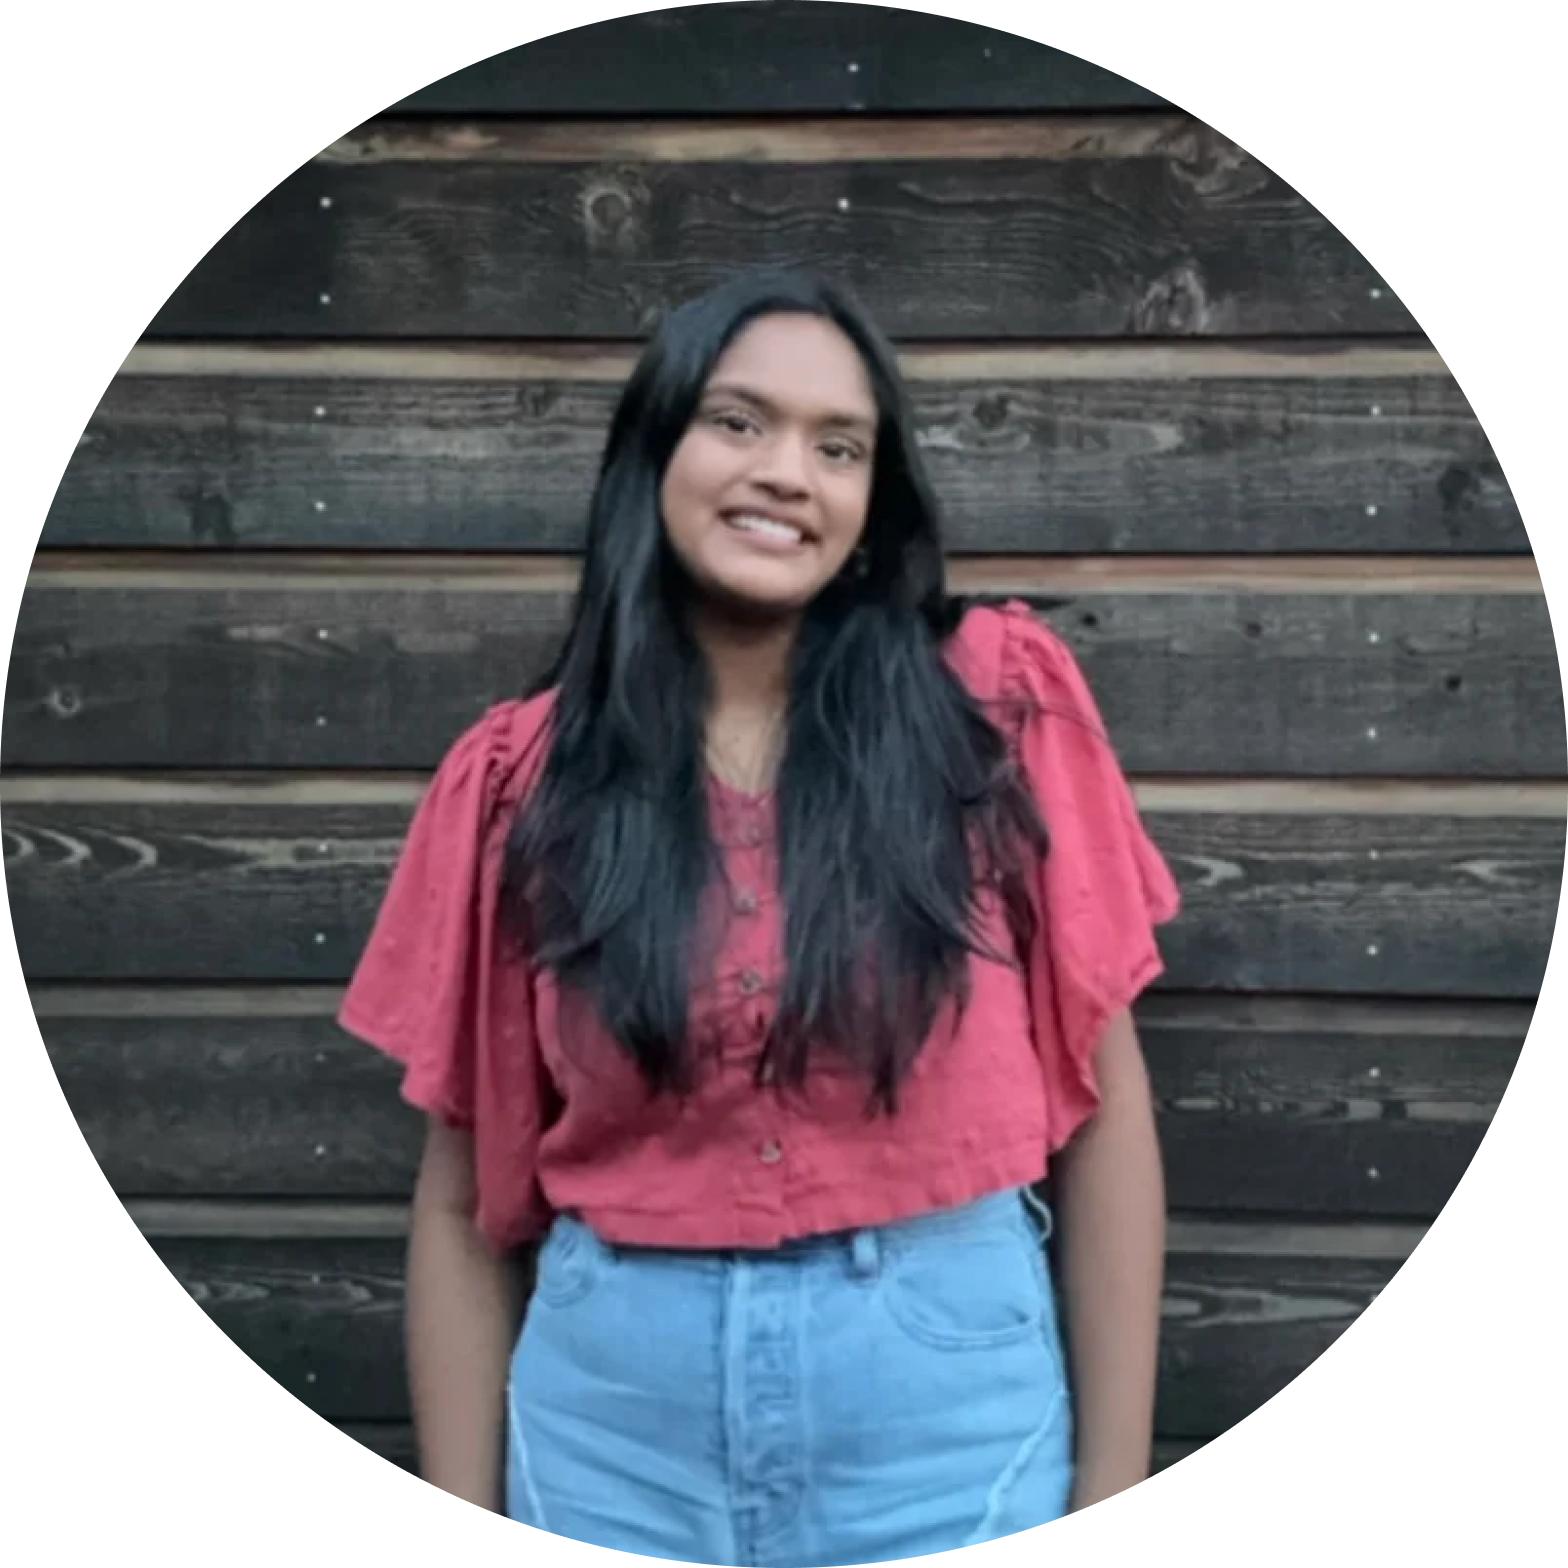
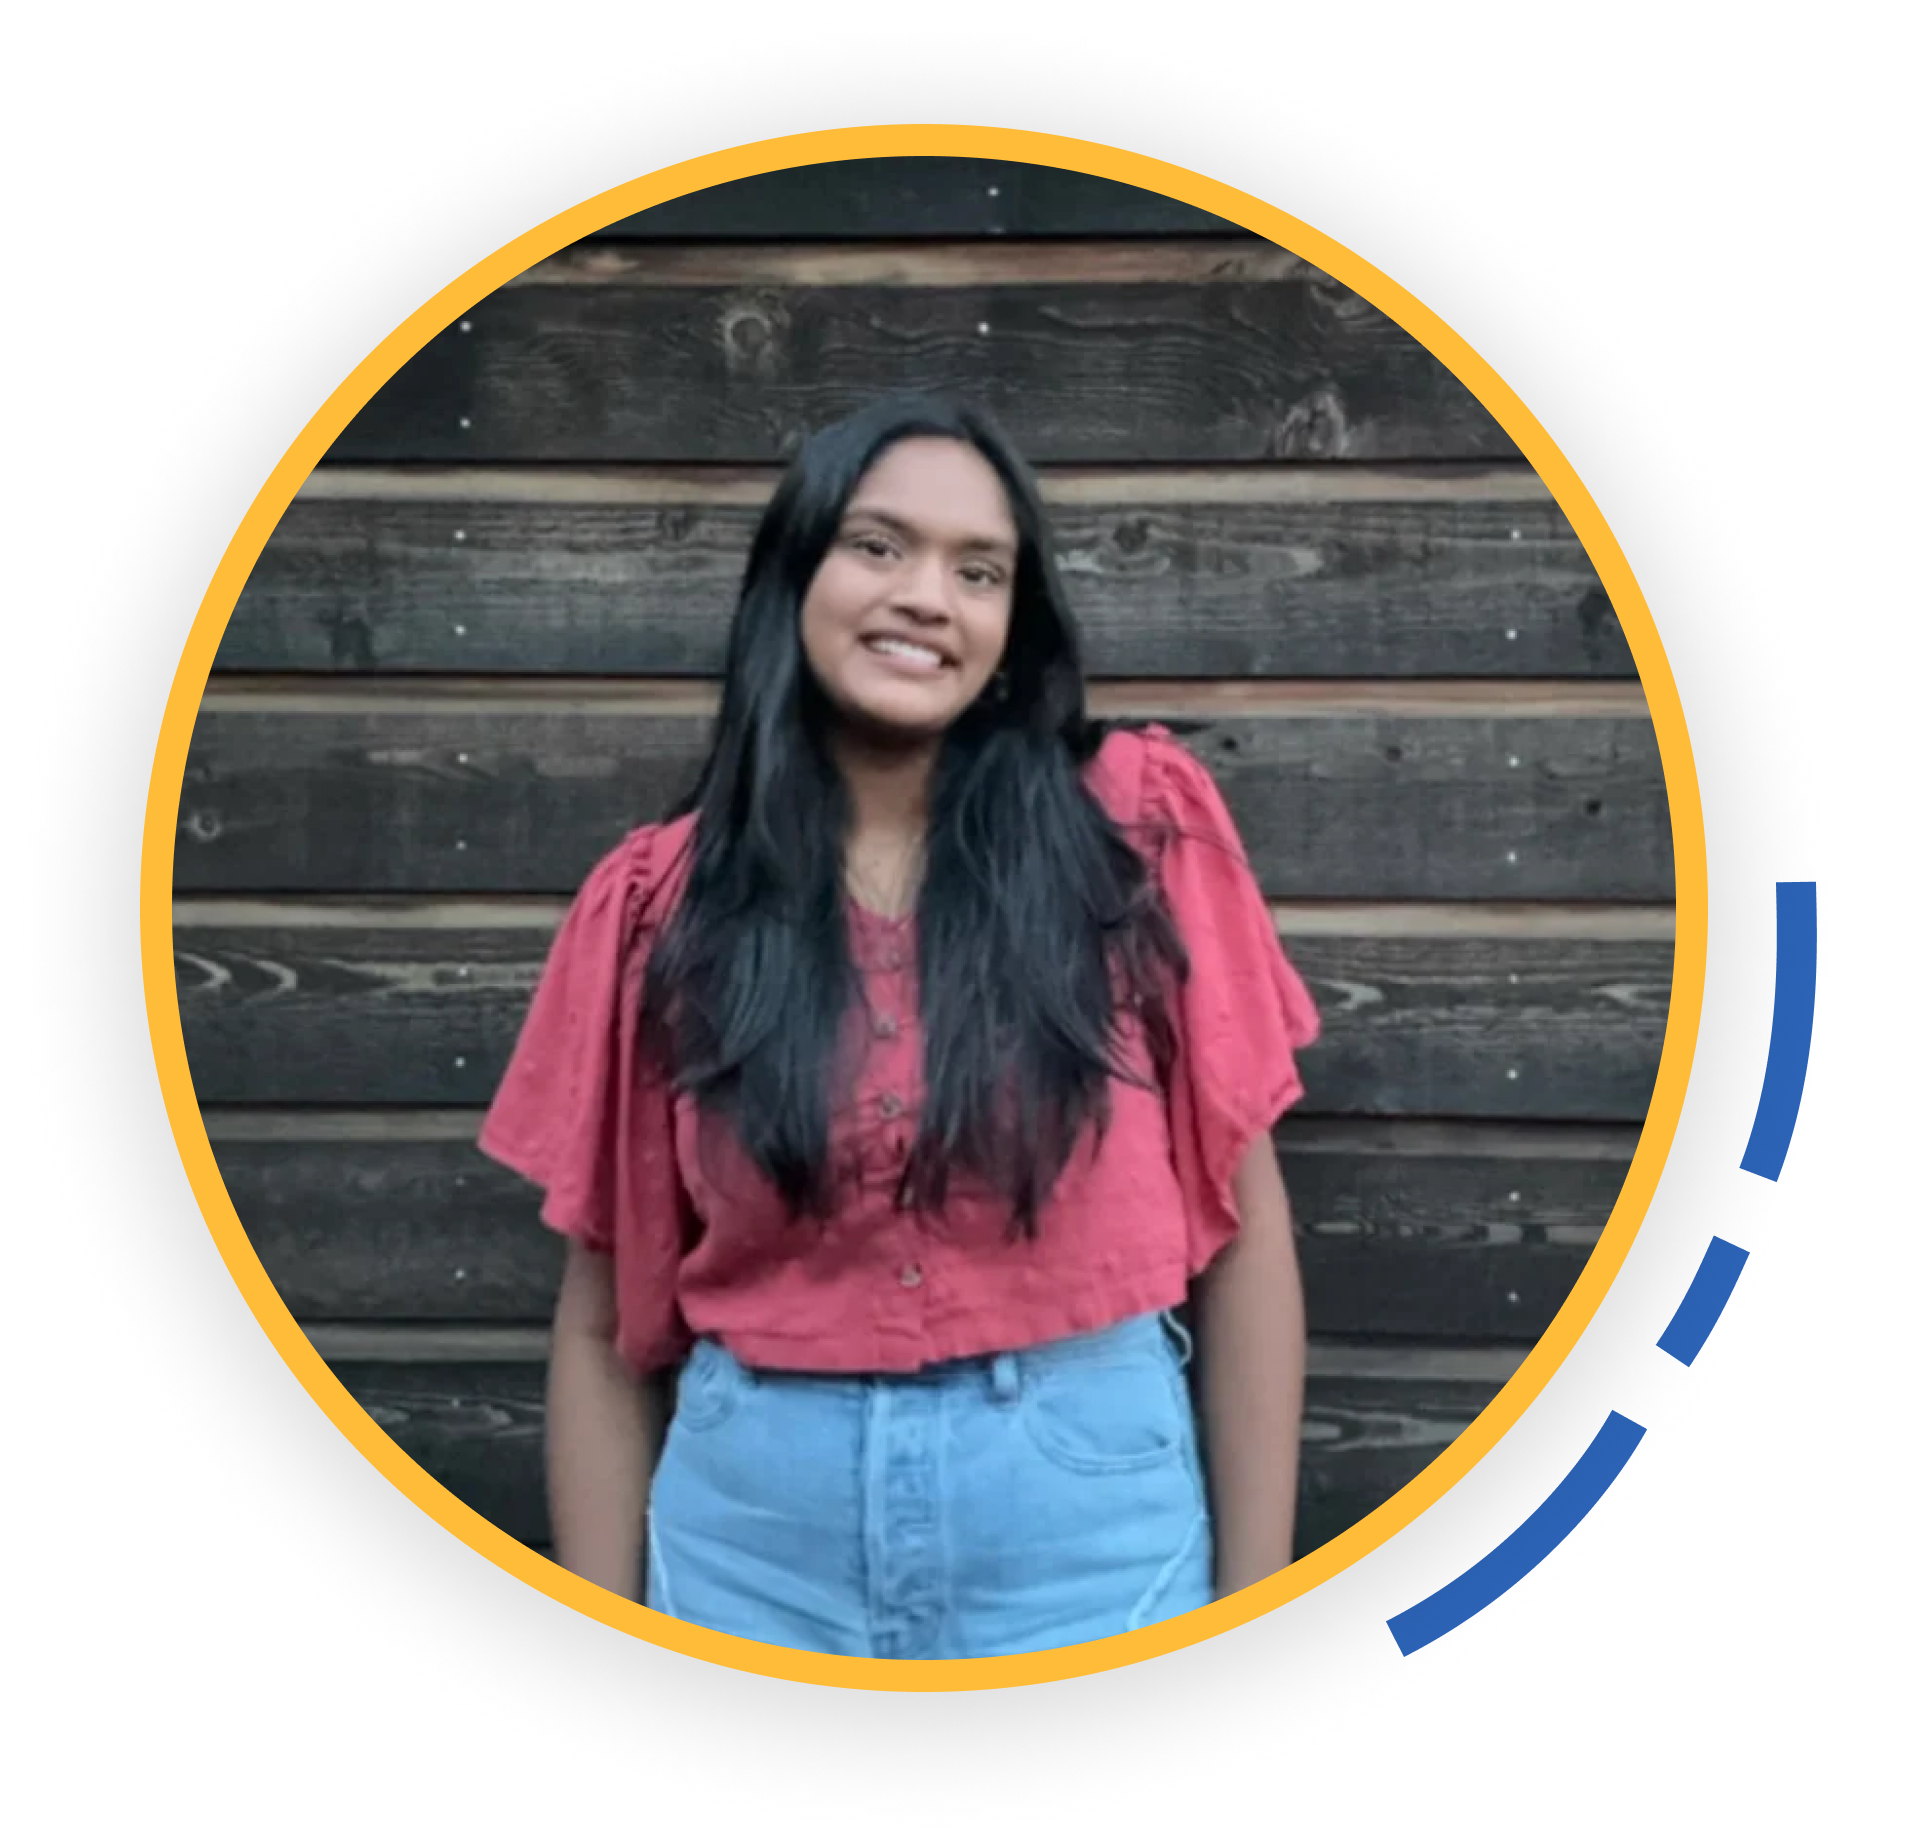
fix about img

diff --git a/about.html b/about.html
@@ -71,14 +71,16 @@
         </nav>
     </header>
 
-    <div class="primary-section blue-body about-header">
+    <div class="primary-section blue-header about-header">
         <div class="about-flex">
             <div class="about-text">
                 <h1 class="about-title">Our Background</h1>
                 <p class="about-p">CodeWise was founded by Laya Ramesh at age 14. She is currently still a high schooler with the ambition to teach young kids how to code in an ever-advancing technological world. All the money CodeWise receives is donated and used to help underprivileged children gain more access to technology and resources.</p>    
             </div>
             
-            <img class="about-img" src="images/team/laya.png">
+            <div class="about-rel">
+                <img class="about-img" src="images/team/laya.png">
+            </div>
         </div>
     </div>
 
@@ -94,9 +96,9 @@
         <h2 class="footer-logo">CodeWise</h2>
         <a target="_blank" href="mailto:wearecodewise@gmail.com" class="footer-email">wearecodewise@gmail.com</a>
         <div class="lines">
-            <div class="line edge-line light-blue-line"></div>
-            <div class="line middle-line yellow-line"></div>
-            <div class="line edge-line dark-blue-line"></div>
+            <div class="edge-line light-blue-line"></div>
+            <div class="middle-line yellow-line"></div>
+            <div class="edge-line dark-blue-line"></div>
         </div>
         <p class="copyright">©2024 by CodeWise</p>
     </div>

diff --git a/styles/about.css b/styles/about.css
@@ -27,12 +27,13 @@
 }
 
 .about-img {
-    width: 280px;
-    height: 280px;
-    border: #FFBC39 4px solid;
-    border-radius: 800px;
+    width: 310px;
+    height: 310px;
 }
 
+.about-rel {
+    position: relative;
+}
 
 @media (max-width: 1020px) {
     .about-flex {
@@ -47,8 +48,8 @@
     }
 
     .about-img {
-        width: 190px;
-        height: 190px;
+        width: 220px;
+        height: 220px;
     }
 
     .about-title {
@@ -60,7 +61,7 @@
     }
 }
 
-@media (max-width: 667px) {
+@media (max-width: 660px) {
     .about-flex {
         flex-direction: column;
         gap: 35px;

diff --git a/styles/sections.css b/styles/sections.css
@@ -9,7 +9,7 @@
 }
 
 .secondary-section {
-    padding-top: 56px;
+    padding-top: 53px;
 }
 
 @media (max-width: 480px) {

diff --git a/styles/general.css b/styles/general.css
@@ -1,3 +1,3 @@
-.blue-body {
+.blue-body, .blue-header {
     background-color: #E5F1FF;
 }
